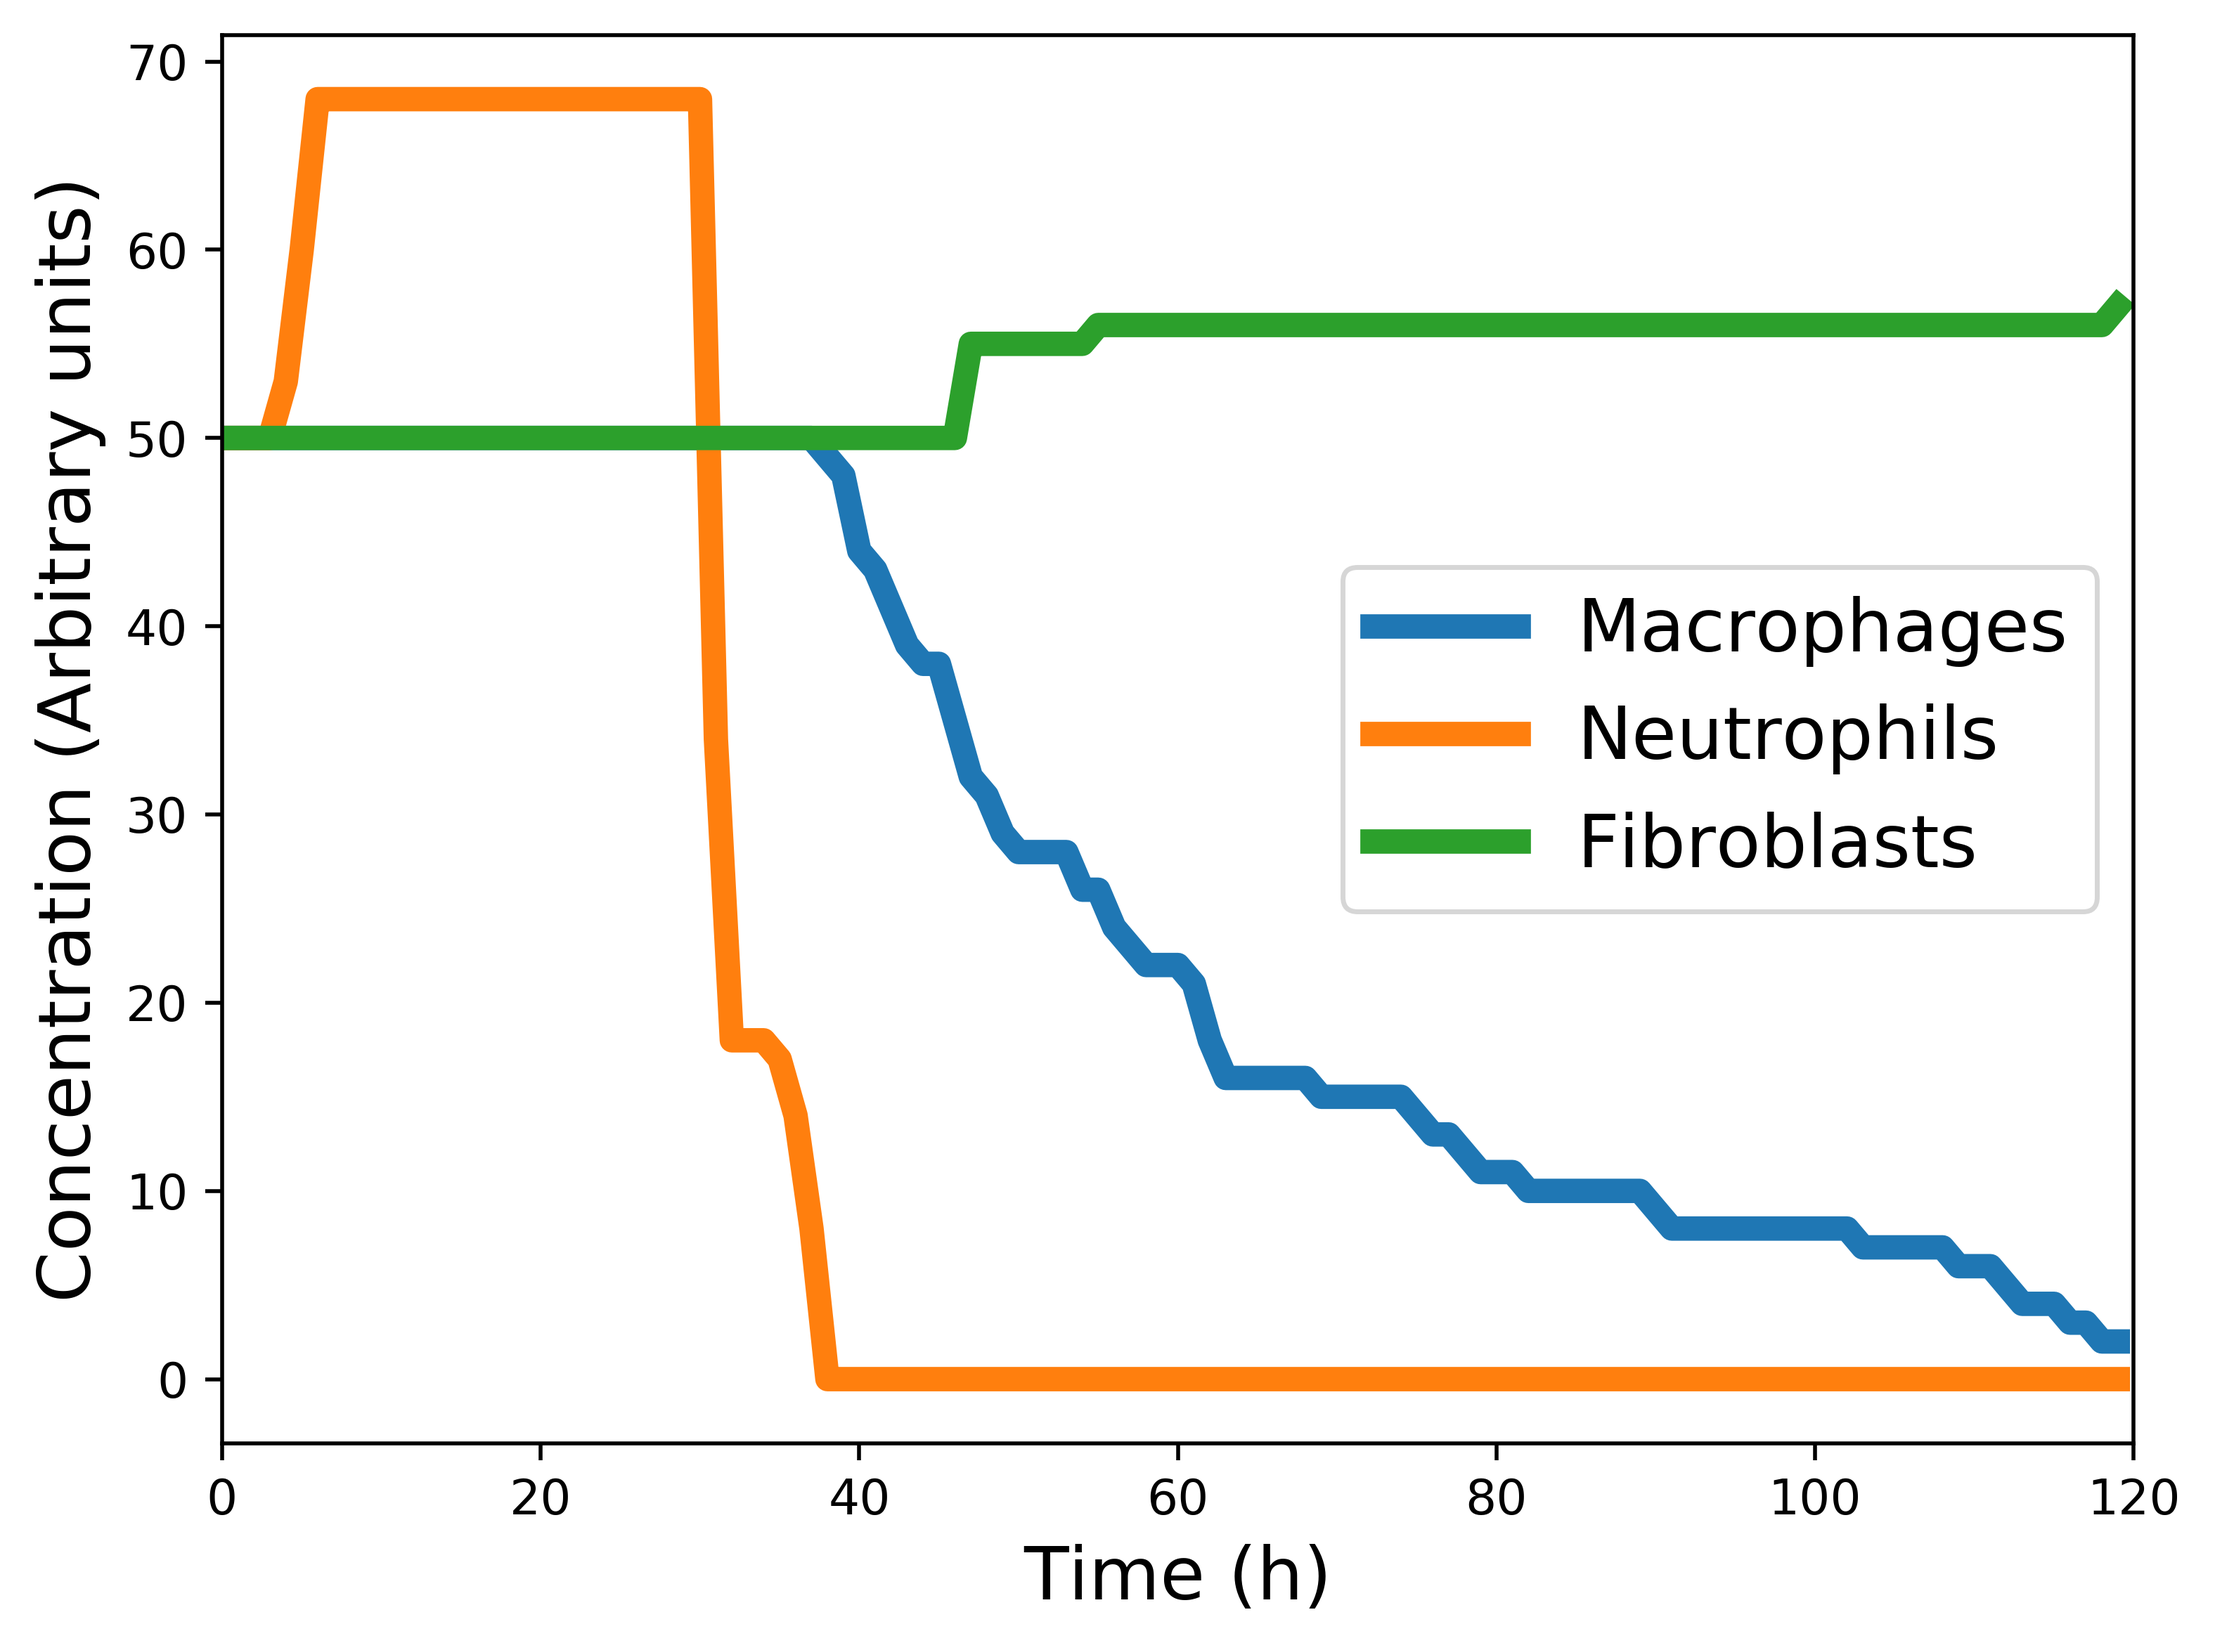
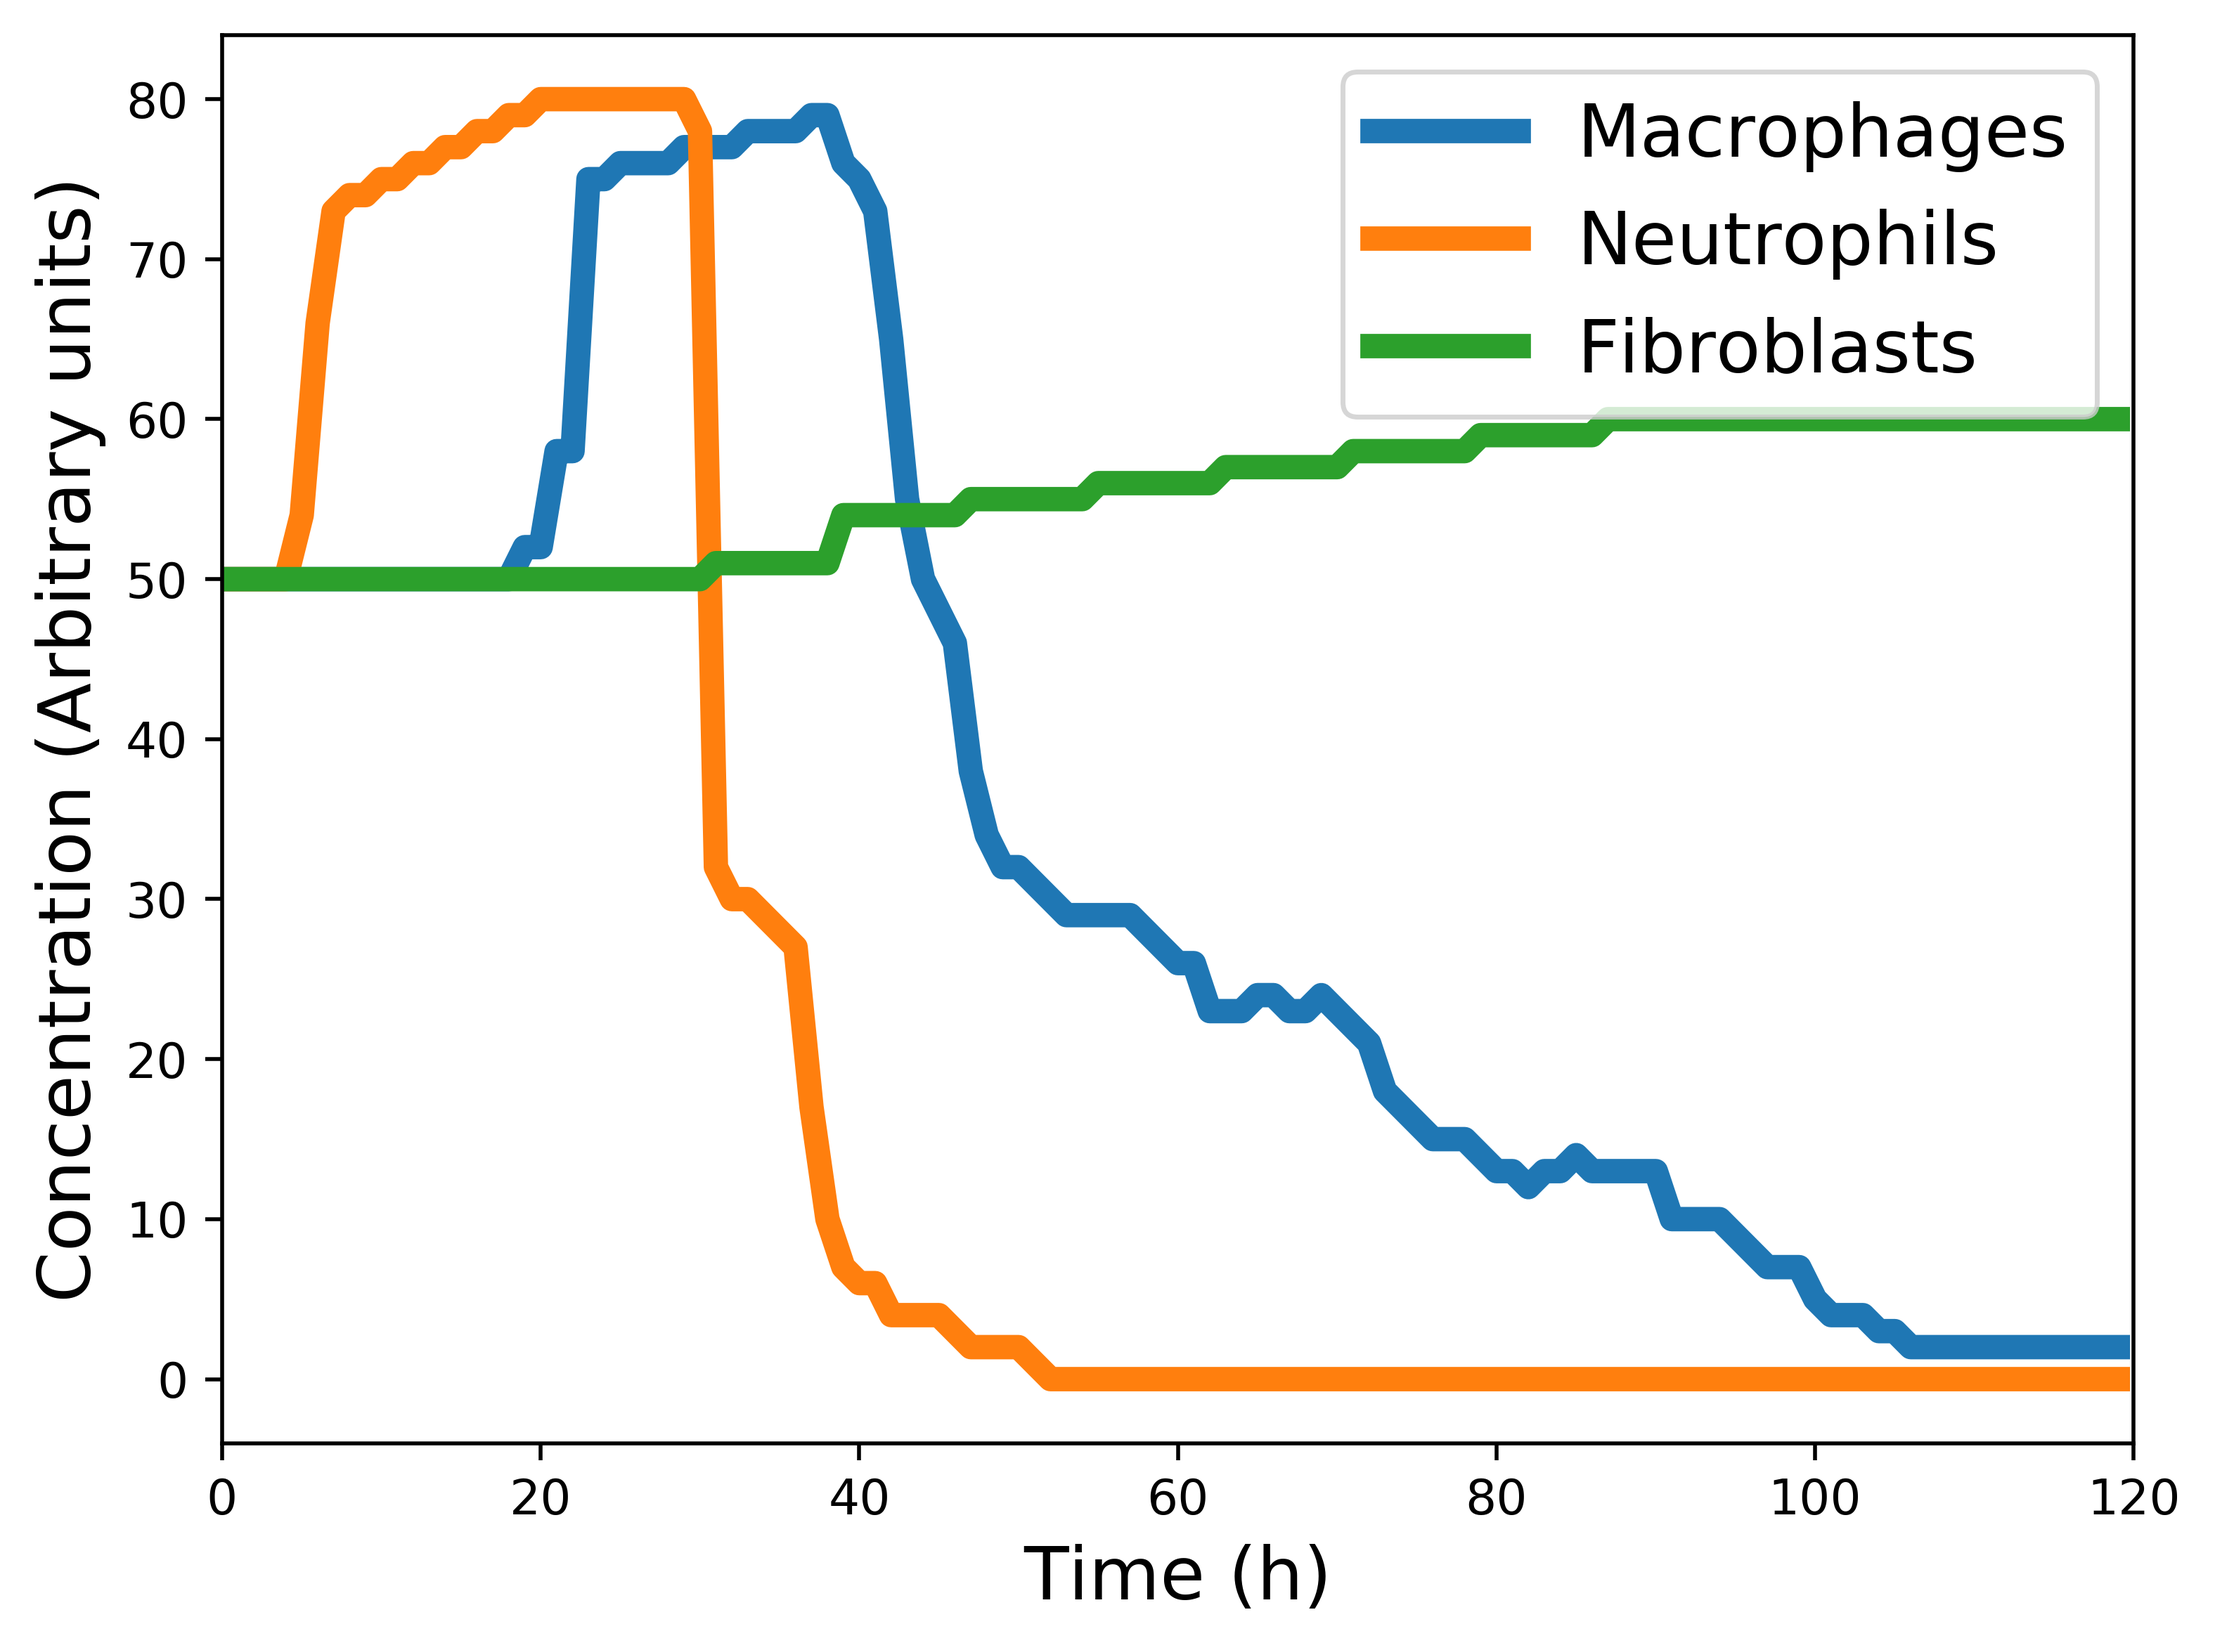
update

diff --git a/ABM/agents.py b/ABM/agents.py
@@ -79,7 +79,7 @@ class Endothelial(Agent):
             self.macrophage_time = 0
 
 
-        if self.TNFa > 1 and self.oxy >= 25 and self.IL6 > 1 and self.model.resting_neutrophils > 0 and self.oxy<100 and self.model.blood_flow() < 80:
+        if self.TNFa > 1 and self.oxy >= 25 and self.IL6 > 1 and self.model.resting_neutrophils > 0 and self.oxy<100  and self.model.blood_flow() <90:
             self.attract_neutrophil()
             self.neutrophil_time = 0
 
@@ -192,13 +192,13 @@ class Neutrophil(Agent):
                     if agent.oxy >= 100:
                         pass
                     else:
-                        agent.oxy += 2
+                        agent.oxy += 1
             elif type(agent) is Endothelial:
                 if self.energy > 0:
                     if agent.oxy >= 100:
                         pass
                     else:
-                        agent.oxy += 2
+                        agent.oxy += 1
 
             if type(agent) is Macrophage:
                 if self.energy == 0:
@@ -288,7 +288,7 @@ class Macrophage(Agent):
                     if agent.oxy >= 100:
                         pass
                     else:
-                        agent.oxy += 2
+                        agent.oxy += 1
                     counter = counter + 2
                     modulation = modulation + agent.TNFa + agent.IL6
             if modulation / counter > 2:

diff --git a/ABM/ABM.py b/ABM/ABM.py
@@ -125,7 +125,7 @@ class WoundModel(Model):
     def blood_flow(self):
         agent_oxy = [agent.oxy for agent in self.schedule.agents if type(agent) is Endothelial]
         oxy_total = sum(agent_oxy)
-        return oxy_total / 625
+        return oxy_total / len(self.all_coordinates)
 
 
 
@@ -252,12 +252,12 @@ def loop_fig(fignum):
     return fignum + 1
 
 def run_model(step_count=120):
-    model = WoundModel(50,50,50,1,1,1,1,25,25,10,0.5)
+    model = WoundModel(50,50,50,0.5,0.5,0.5,0.5,25,25,10,0.5)
     for i in range(step_count):
         model.step()
     cell_concentrations = model.datacollector.get_model_vars_dataframe()
 
-    modelAP = WoundModel(75, 50, 50, 5, 0.25, 0.5, 0.5, 25, 25, 10, 0.5)
+    modelAP = WoundModel(80, 50, 50, 4, 0.0, 0.5, 0.5, 25, 25, 10, 0.5)
     #modelAP = WoundModel(80, 50, 80, 1, 0, 0, 0, 25, 25, 10, 0.7)
     for i in range(step_count):
         modelAP.step()
@@ -342,7 +342,7 @@ def run_model(step_count=120):
     print('... Plotting collagen')
     plt.savefig('results/' + 'Collagen.png', format='png', dpi=500, bbox_inches='tight')
 
-#run_model()
+run_model()
 
 def run_calibration(step_count=120):
     model = WoundModel(50,50,50,0.5,0.5,0.5,0.5,25,25,10,0.5)
